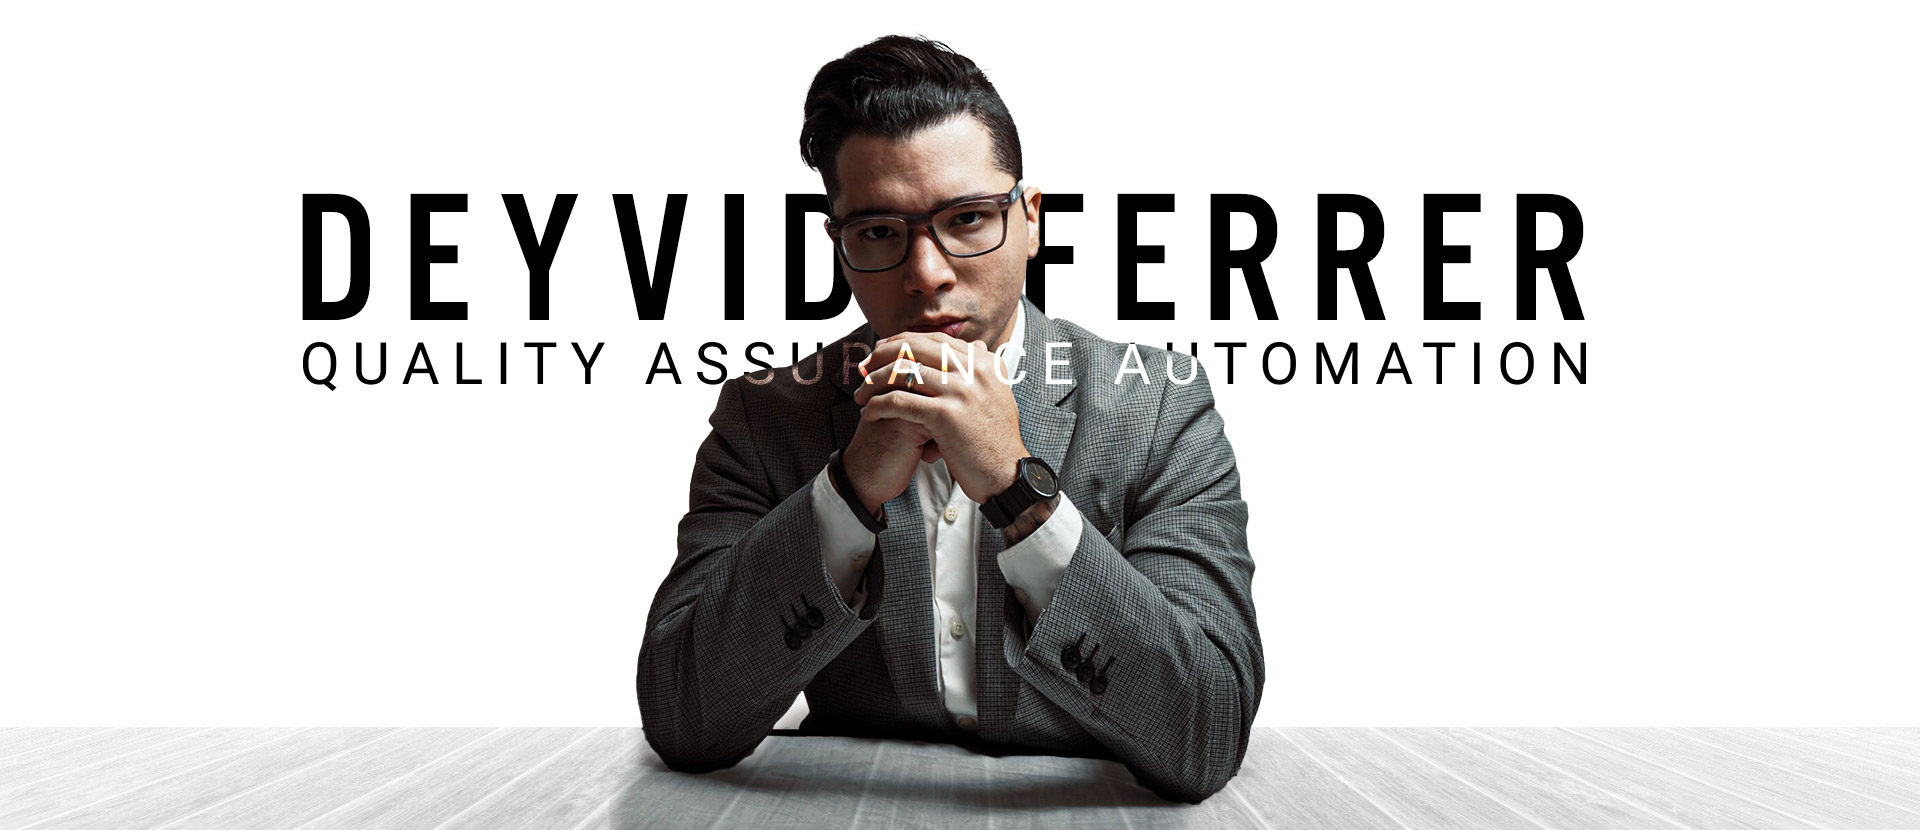
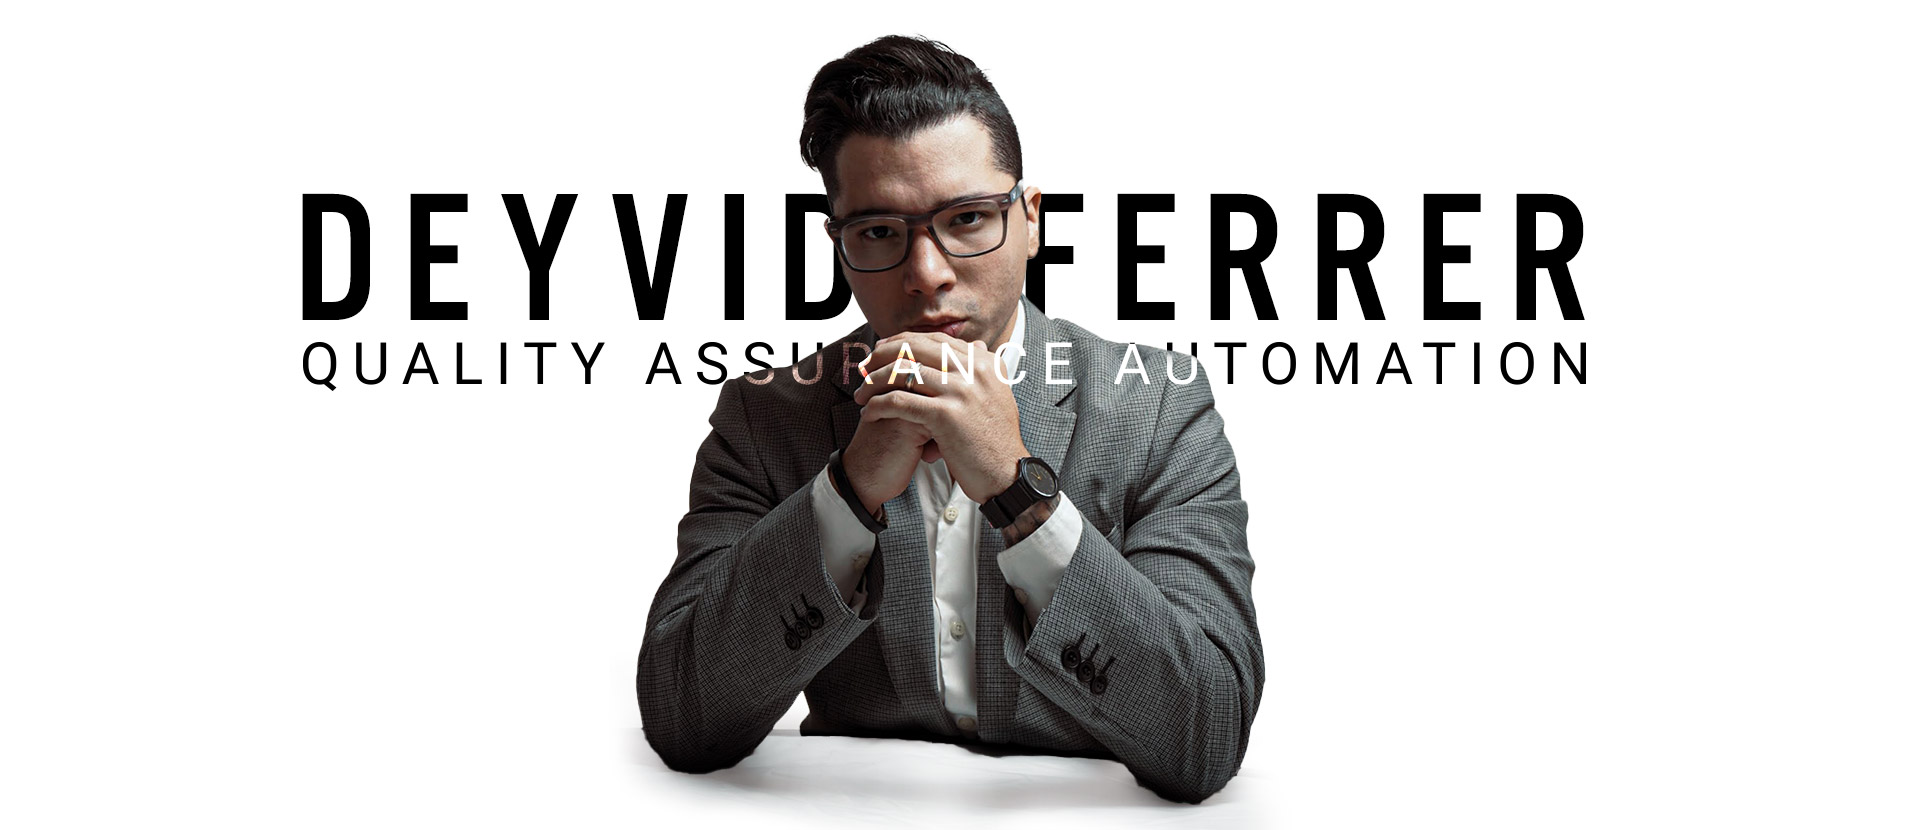
mejors

Changed region(s): [[0.0, 0.8434, 1.0, 1.0], [0.4375, 0.4217, 0.4688, 0.4518]]

diff --git a/_sass/_base.scss b/_sass/_base.scss
@@ -11,7 +11,7 @@ body {
 }
 
 .masthead {
-  height: 100vh;
+  height: 80vh;
   min-height: 460px;
   background-image: url('/assets/banner.jpg');
   background-size: cover;
